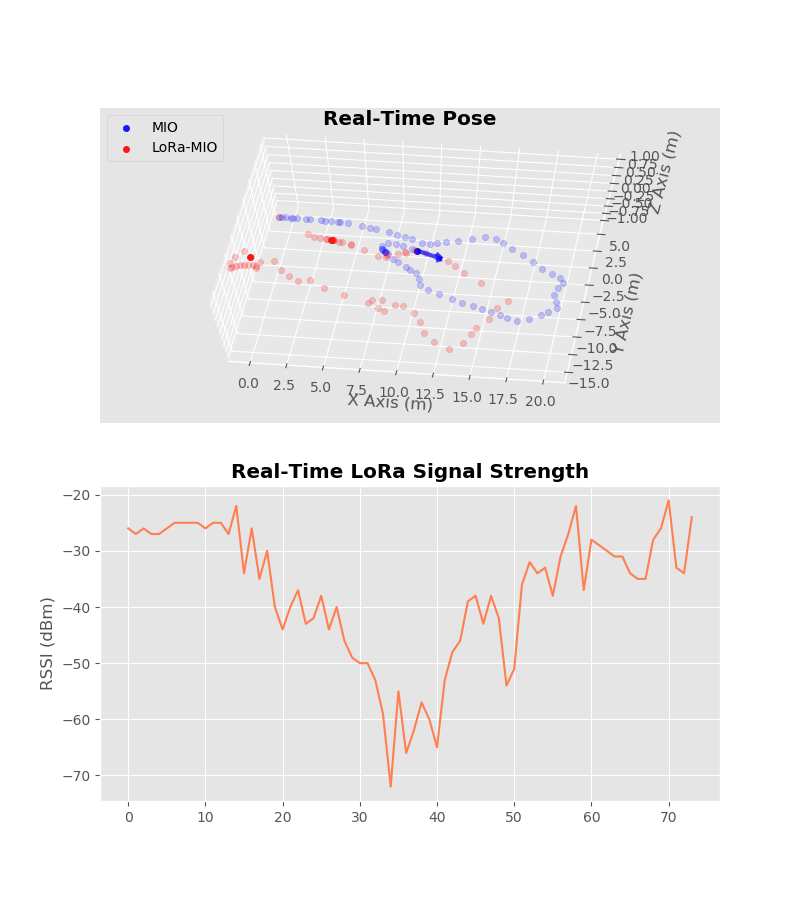
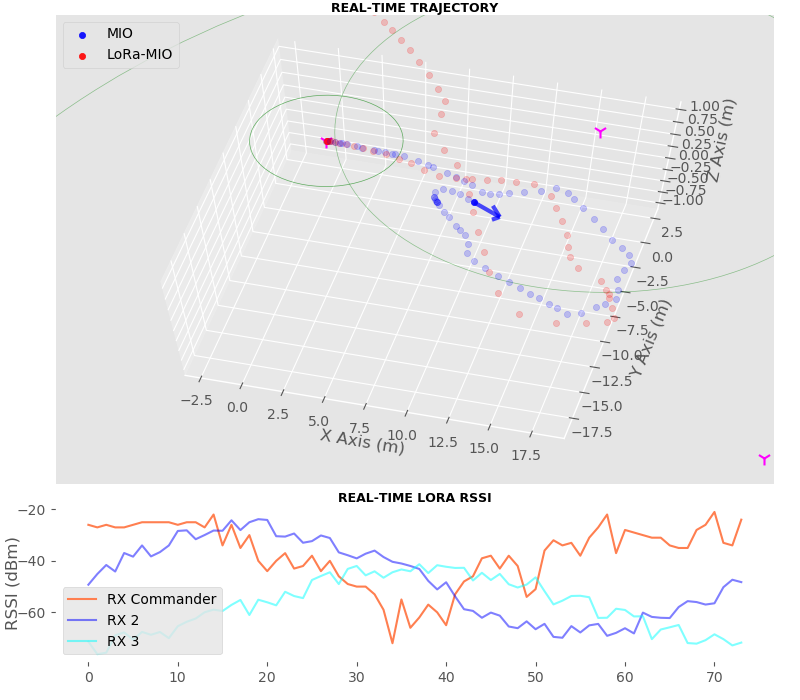
Implemented MultiRX parsing;Added synthetic RSSIs

diff --git a/replay.py b/replay.py
@@ -12,8 +12,8 @@ class EKF_Fusion_MultiRX(EKF_Fusion):
         if type(anchor) != int or anchor < 1:
             print("Number of anchor should be integer greater than 0")
             raise TypeError
-        self.anchor = anchor
-        super().__init__(dim_z=2+self.anchor, dt=dt, visual=visual)
+
+        super().__init__(anchor=anchor, dim_z=2+anchor, dt=dt, visual=visual)
         # TWEEK PARAMS
         self.my_kf.x = np.array([0., 0., 0., 0.1]).reshape(-1, 1)
         self.my_kf.P = np.diag(np.array([1., 1., 10., 20.]))
@@ -39,8 +39,8 @@ class EKF_Fusion_MultiRX_ZYaw(EKF_Fusion):
         if type(anchor) != int or anchor < 1:
             print("Number of anchor should be integer greater than 0")
             raise TypeError
-        self.anchor = anchor
-        super().__init__(dim_z=3+self.anchor, dt=dt, visual=visual)
+
+        super().__init__(anchor=anchor, dim_z=3+anchor, dt=dt, visual=visual)
         # TWEEK PARAMS
         self.my_kf.x = np.array([1., -1., 0., 0.2]).reshape(-1, 1)
         # Process Noise Cov
@@ -106,8 +106,9 @@ class EKF_Fusion_MultiRX_AngularV(EKF_Fusion):
         if type(anchor) != int or anchor < 1:
             print("Number of anchor should be integer greater than 0")
             raise TypeError
-        self.anchor = anchor
-        super().__init__(dim_x=5, dim_z=3 + self.anchor, dt=dt, visual=visual)
+
+        super().__init__(anchor=anchor, dim_x=5, dim_z=3 + anchor, dt=dt, visual=visual)
+
         # State Transition Martrix: F
         self.my_kf.F = eye(5)
 
@@ -124,12 +125,14 @@ class EKF_Fusion_MultiRX_AngularV(EKF_Fusion):
             measure_noise = np.hstack((measure_noise, np.array([SIGMA ** 2])))
         self.my_kf.R = np.diag(measure_noise)
 
-    def smoother(self):
-        if len(self.rssi_list) > 3:
-            ave_rssi = 0.6 * self.rssi_list[-1] + 0.25*self.rssi_list[-2] + 0.15*self.rssi_list[-3]
+    def smoother(self, lst):
+        if len(lst) > 3:
+            ave_rssi = 0.6 * lst[-1] + 0.25*lst[-2] + 0.15*lst[-3]
+        elif len(lst) == 0:
+            return []
         else:
-            ave_rssi = self.rssi_list[-1]
-        return ave_rssi
+            ave_rssi = lst[-1]
+        return float(ave_rssi)
 
     def rt_run(self, gap):
 
@@ -141,7 +144,12 @@ class EKF_Fusion_MultiRX_AngularV(EKF_Fusion):
             # Add ROT_Z, convert from 'degree' to 'Rad', as measurement!
             final_xyZ.append(final_pose[5] * math.pi/180)
             # Populate ONE Rssi for a 'gap' of Poses
-            final_xyZ.append(float(self.smoother()))
+            final_xyZ.append(self.smoother(self.rssi_list))
+            if self.rssi_list2:
+                final_xyZ.append(self.smoother(self.rssi_list2))
+            if self.rssi_list3:
+                final_xyZ.append(self.smoother(self.rssi_list3))
+
             z = np.asarray(final_xyZ, dtype=float).reshape(-1, 1)
             #print("Measurement ROT_Z:", z[2, 0])
 
@@ -150,7 +158,8 @@ class EKF_Fusion_MultiRX_AngularV(EKF_Fusion):
             self.my_kf.R[0, 0] = 4.0  # self.sigma_list[-g][0]*1000
             self.my_kf.R[1, 1] = 4.0  # self.sigma_list[-g][1]*1000
             self.my_kf.R[2, 2] = 0.0005 # self.sigma_list[-g][-1]**2 # Sigma of ROT_Z
-            self.my_kf.R[3, 3] = 10*SIGMA**2
+            for rowcol in range(3, 3+self.anchor):
+                self.my_kf.R[rowcol, rowcol] = 10*SIGMA**2
 
             # Refresh State Transition Martrix: F
             self.my_kf.F = eye(5) + array([[0, 0, -self.dt * self.my_kf.x[3, 0] * math.sin(self.my_kf.x[2, 0]),
@@ -213,46 +222,68 @@ class EKF_Fusion_MultiRX_AngularV(EKF_Fusion):
         pass
 
 
-        
+def synthetic_rssi(data_len, period=1., Amp=20., phase=0., mean=-43., noiseAmp=0.2):
+    rssi_x = np.arange(0, data_len).tolist()
+    rssi_y = [Amp * (math.sin(x / (data_len / period) * 2 * math.pi + phase) + noiseAmp * 2 * (np.random.rand() - 1)) + mean for x in rssi_x]
+    '''
+    fig3 = plt.figure(3)
+    ax31 = fig3.add_subplot(1, 1, 1)
+    ax31.plot(rssi_x, rssi_y)
+    '''
+    return rssi_y
+
 
 if __name__=="__main__":
     
-    ekf = EKF_Fusion_MultiRX_AngularV(anchor=1)
-    # TODO replay the logged LoRa RX messages
-    dt = 0.1
-    # SIMULATION
-    '''
-    T = 10.
-    for i in range(int(T / dt)):
-        ekf.sim_run()
-        time.sleep(.1)
-    ekf.sim_show()
-    '''
-    
+    ekf = EKF_Fusion_MultiRX_AngularV(anchor=3)
+    # TODO Sync Multiple RX RSSIs and Replay
+
+
     for filename in os.listdir('TEST'):
         if filename.endswith('.txt'):
             with open('TEST/' + filename, "r") as f:
                 recv_list = f.readlines()
-                
+
+            # Add synthetic RSSIs
+            data_len = len(recv_list)
+            if 1:
+                rssi_y2 = synthetic_rssi(data_len=data_len, period=1.)
+                rssi_y3 = synthetic_rssi(data_len=data_len, period=1., Amp=15, phase=-math.pi/2, noiseAmp=0.3, mean=-45)
+            else:
+                rssi_y2, rssi_y3 = [], []
+
+            rssi_idx = 0
+
             for item in recv_list:
+                rssi_list = []
+
                 parts = item.split(';')
                 t = parts[0]
                 msgs = parts[1]
-                vals = msgs.split(',')[:-1]
-                rssi = int(parts[2])
+                vals = msgs.split(',')
+                rssi1 = int(parts[2])
+                # Append RXs measurements
+                rssi_list.append(rssi1)
+                if rssi_y2:
+                    rssi_list.append(rssi_y2[rssi_idx])
+                if rssi_y3:
+                    rssi_list.append(rssi_y3[rssi_idx])
+                rssi_idx += 1
                 
                 msg_list = [float(i) for i in vals]
-                msg_list.append(rssi)
-                #msg_list.append(0)
+                msg_list.extend(rssi_list)
+
                 ekf.new_measure(*msg_list)
-                
+
+                #plt.pause(0.01)
                 time.sleep(.001)
                
             ekf.fig2.savefig("replay_rx.png")
-            '''
+
+    '''
             ekf.reset_view()
             ekf.set_view()
-            '''
+    '''
     
     
     

diff --git a/EKF.py b/EKF.py
@@ -15,14 +15,12 @@ import matplotlib.pyplot as plt
 from matplotlib import gridspec
 import matplotlib
 #matplotlib.use('agg')
-import sympy
-from sympy import Matrix, symbols
 
 
 # LoRa RX Coordinates
 R1 = np.array([[0., 0., 0.],
-               [5., 0., 0.],
-               [0., 4., 0.],
+               [15., 5., 0.],
+               [30., -22., 0.],
                [5., 4., 0.],
                [2., -2.5, 0.]])
 # Path Loss Model params
@@ -218,8 +216,9 @@ class PoseVel(object):
 
 
 class EKF_Fusion():
-    def __init__(self, dt=0.1, dim_x=4, dim_z=3, blit=True, visual=False):
+    def __init__(self, dt=0.1, anchor=1, dim_x=4, dim_z=3, blit=True, visual=False):
         self.visual = visual
+        self.anchor = anchor
         # Current Pose handler
         self.pred_transform_t_1 = np.array(
         [[1., 0, 0, 0],
@@ -234,7 +233,7 @@ class EKF_Fusion():
         self.final_list = []
         self.sigma_list = []
         self.angle = 0
-        self.rssi_list = []
+        self.rssi_list, self.rssi_list2, self.rssi_list3 = [], [], []
         self.vec = np.array([[0], [1], [0], [0]], dtype=float)
         self.odom_quat = self.vec
         
@@ -300,19 +299,23 @@ class EKF_Fusion():
         self.abs_yaw = 0
         
         
-    def new_measure(self, *args):
+    def new_measure(self, *args, **kwargs):
         start_t = time.time()
-        len_pose=12
+        len_pose = 12
         gap = 0
         msg_list = []
-        # First (args) is Object!?
         for arg in args:
             msg_list.append(arg)
-            #print(type(arg))
-        rssi = msg_list[-1]
-        msg_list = msg_list[:-1]
-        self.rssi_list.append(rssi)
-        #print(len(msg_list))
+        print(len(msg_list))
+        rssis = msg_list[-self.anchor:]
+        print(rssis)
+        msg_list = msg_list[:-self.anchor]
+        self.rssi_list.append(rssis[0])
+        if self.anchor >= 2:
+            self.rssi_list2.append(rssis[1])
+        if self.anchor >= 3:
+            self.rssi_list3.append(rssis[2])
+
         for idx in range(0, len(msg_list), len_pose):
             final_pose = msg_list[idx:idx+6]
             sigma_pose = msg_list[idx+6:idx+12]
@@ -375,6 +378,8 @@ class EKF_Fusion():
             
             # Populate ONE Rssi for a 'gap' of Poses
             final_xy.append(float(self.rssi_list[-1]))
+            final_xy.append(float(self.rssi_list2[-1]))
+            final_xy.append(float(self.rssi_list3[-1]))
             
             z = np.asarray(final_xy, dtype=float).reshape(-1, 1)
             #print("Measurement:\n", z)
@@ -471,7 +476,10 @@ class EKF_Fusion():
         self.handle_arrw.remove()
         # Remove Range Circle
         self.cir1.remove()
-        #self.handle_arrw_ekf.remove()
+        if self.rssi_list2:
+            self.cir2.remove()
+        if self.rssi_list3:
+            self.cir3.remove()
 
         self.handle_scat = self.ax21.scatter([self.path[-1][0]], [self.path[-1][1]], [self.path[-1][2]], color='b', marker='o', alpha=.9, label='MIO')
         self.handle_arrw = self.ax21.quiver([self.path[-1][0]], [self.path[-1][1]], [self.path[-1][2]],
@@ -487,13 +495,29 @@ class EKF_Fusion():
         circle1 = plt.Circle((R1[0, 0], R1[0, 1]), radius, color='g', fill=False, alpha=.6, linewidth=0.5)
         self.cir1 = self.ax21.add_patch(circle1)
         art3d.pathpatch_2d_to_3d(circle1, z=0, zdir="z")
+        if self.rssi_list2:
+            radius = 10 ** ((self.rssi_list2[-1] + BETA) / ALPHA)
+            circle2 = plt.Circle((R1[1, 0], R1[1, 1]), radius, color='g', fill=False, alpha=.4, linewidth=0.5)
+            self.cir2 = self.ax21.add_patch(circle2)
+            art3d.pathpatch_2d_to_3d(circle2, z=0, zdir="z")
+        if self.rssi_list3:
+            radius = 10 ** ((self.rssi_list3[-1] + BETA) / ALPHA)
+            circle3 = plt.Circle((R1[2, 0], R1[2, 1]), radius, color='g', fill=False, alpha=.4, linewidth=0.5)
+            self.cir3 = self.ax21.add_patch(circle3)
+            art3d.pathpatch_2d_to_3d(circle3, z=0, zdir="z")
         
         self.ax22.clear()
         self.ax22.set_facecolor('white')
         self.ax22.grid(False)
         self.ax22.set_title("REAL-TIME LORA RSSI", fontweight='bold', fontsize=9, pad=-2)
         self.ax22.set_ylabel("RSSI (dBm)", labelpad=-3)
-        self.ax22.plot(self.rssi_list, 'coral')
+        #self.ax22.set_ylim(-90, -10)
+        self.ax22.plot(self.rssi_list, 'coral', label='RX Commander')
+        if self.rssi_list2:
+            self.ax22.plot(self.rssi_list2, 'b', alpha=.5, label='RX 2')
+        if self.rssi_list3:
+            self.ax22.plot(self.rssi_list3, 'cyan', alpha=.5, label='RX 3')
+        self.ax22.legend(loc='lower left')
         
         if self.blit:
             # restore background
@@ -541,17 +565,28 @@ class EKF_Fusion():
         self.handle_arrw = self.ax21.quiver(x, y, z, u, v, w, color='b', length=2., arrow_length_ratio=0.3, linewidths=3., alpha=.7)
         self.handle_scat_ekf = self.ax21.scatter(X, Y, Z, color='r', marker='o', alpha=.9, label='LoRa-MIO')
         self.ax21.legend(loc='upper left')
+
+        # Show RXs
+        for anc in range(0, self.anchor):
+            self.ax21.scatter(R1[int(anc), 0], R1[int(anc), 1], R1[int(anc), 2], marker='1', s=100, color='magenta')
+
         # Init Range Display
         if not self.rssi_list:
-            radius = 1
+            radius = .5
         else:
             radius = self.rssi_list[-1]
         circle1 = plt.Circle((R1[0, 0], R1[0, 1]), radius, color='g', fill=False, alpha=.2, linewidth=0.5)
         self.cir1 = self.ax21.add_artist(circle1)
+        circle2 = plt.Circle((R1[1, 0], R1[1, 1]), radius, color='g', fill=False, alpha=.2, linewidth=0.5)
+        self.cir2 = self.ax21.add_artist(circle2)
+        circle3 = plt.Circle((R1[2, 0], R1[2, 1]), radius, color='g', fill=False, alpha=.2, linewidth=0.5)
+        self.cir3 = self.ax21.add_artist(circle3)
         
         
     def reset_view(self):
         self.rssi_list = []
+        self.rssi_list2 = []
+        self.rssi_list3 = []
         self.ax21.clear()
 
 
